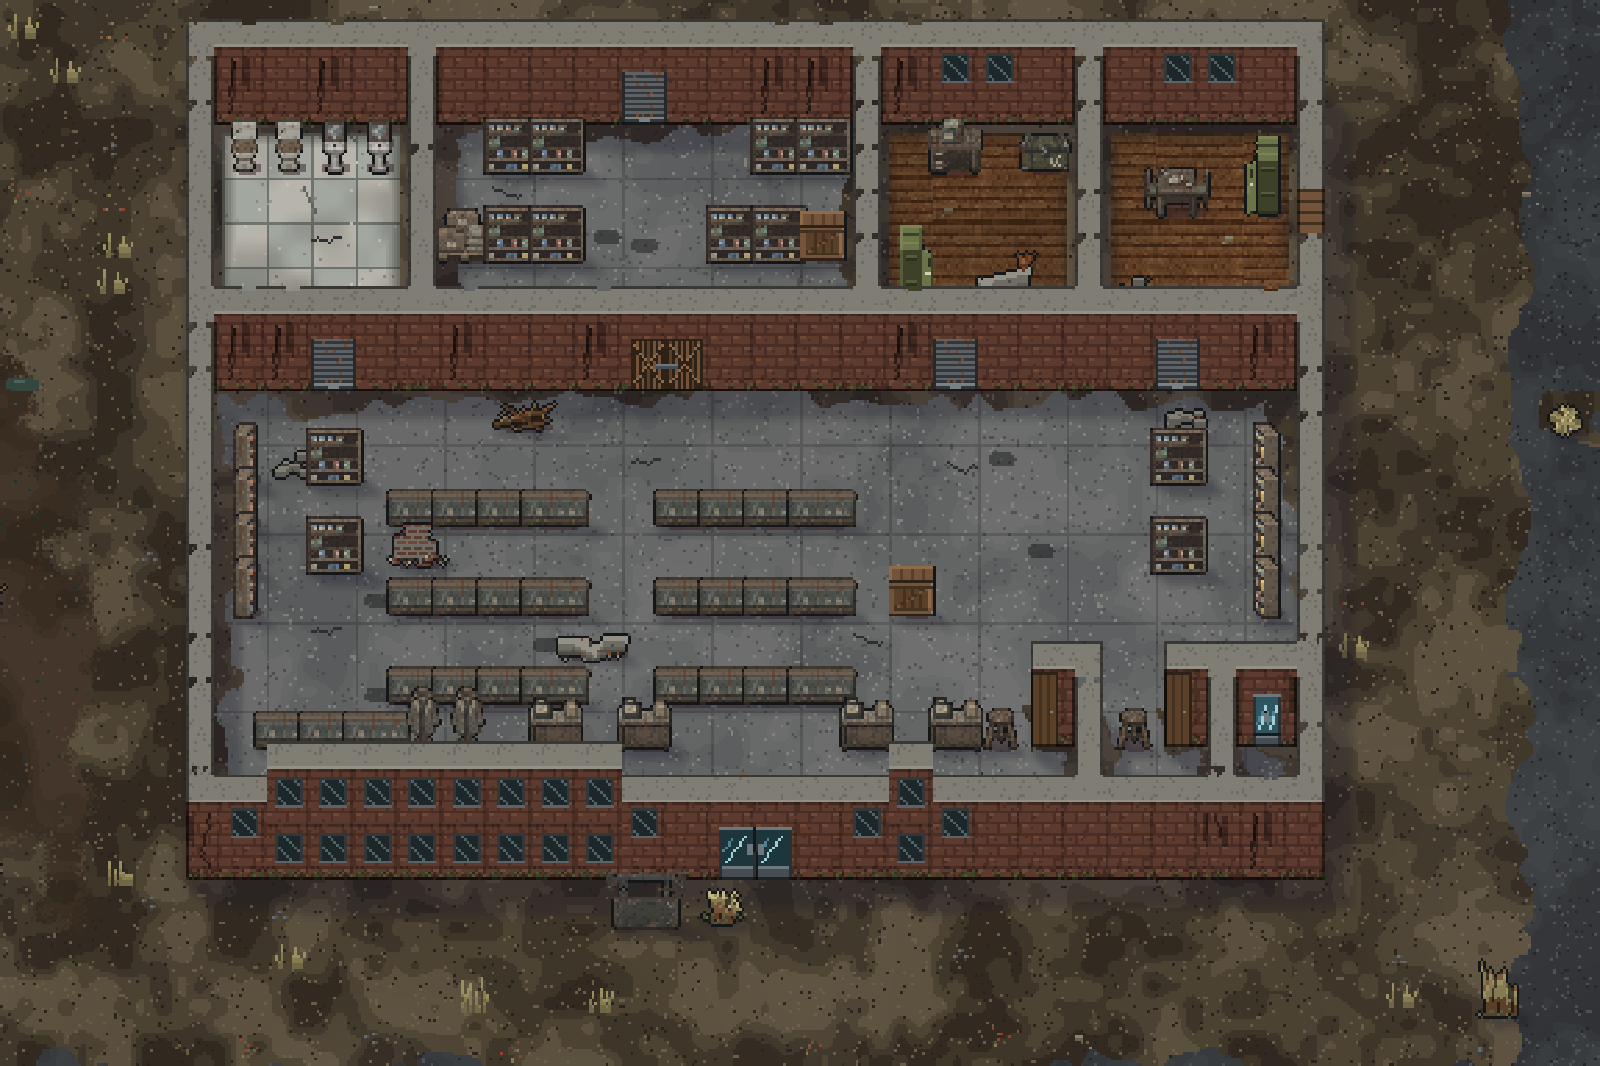
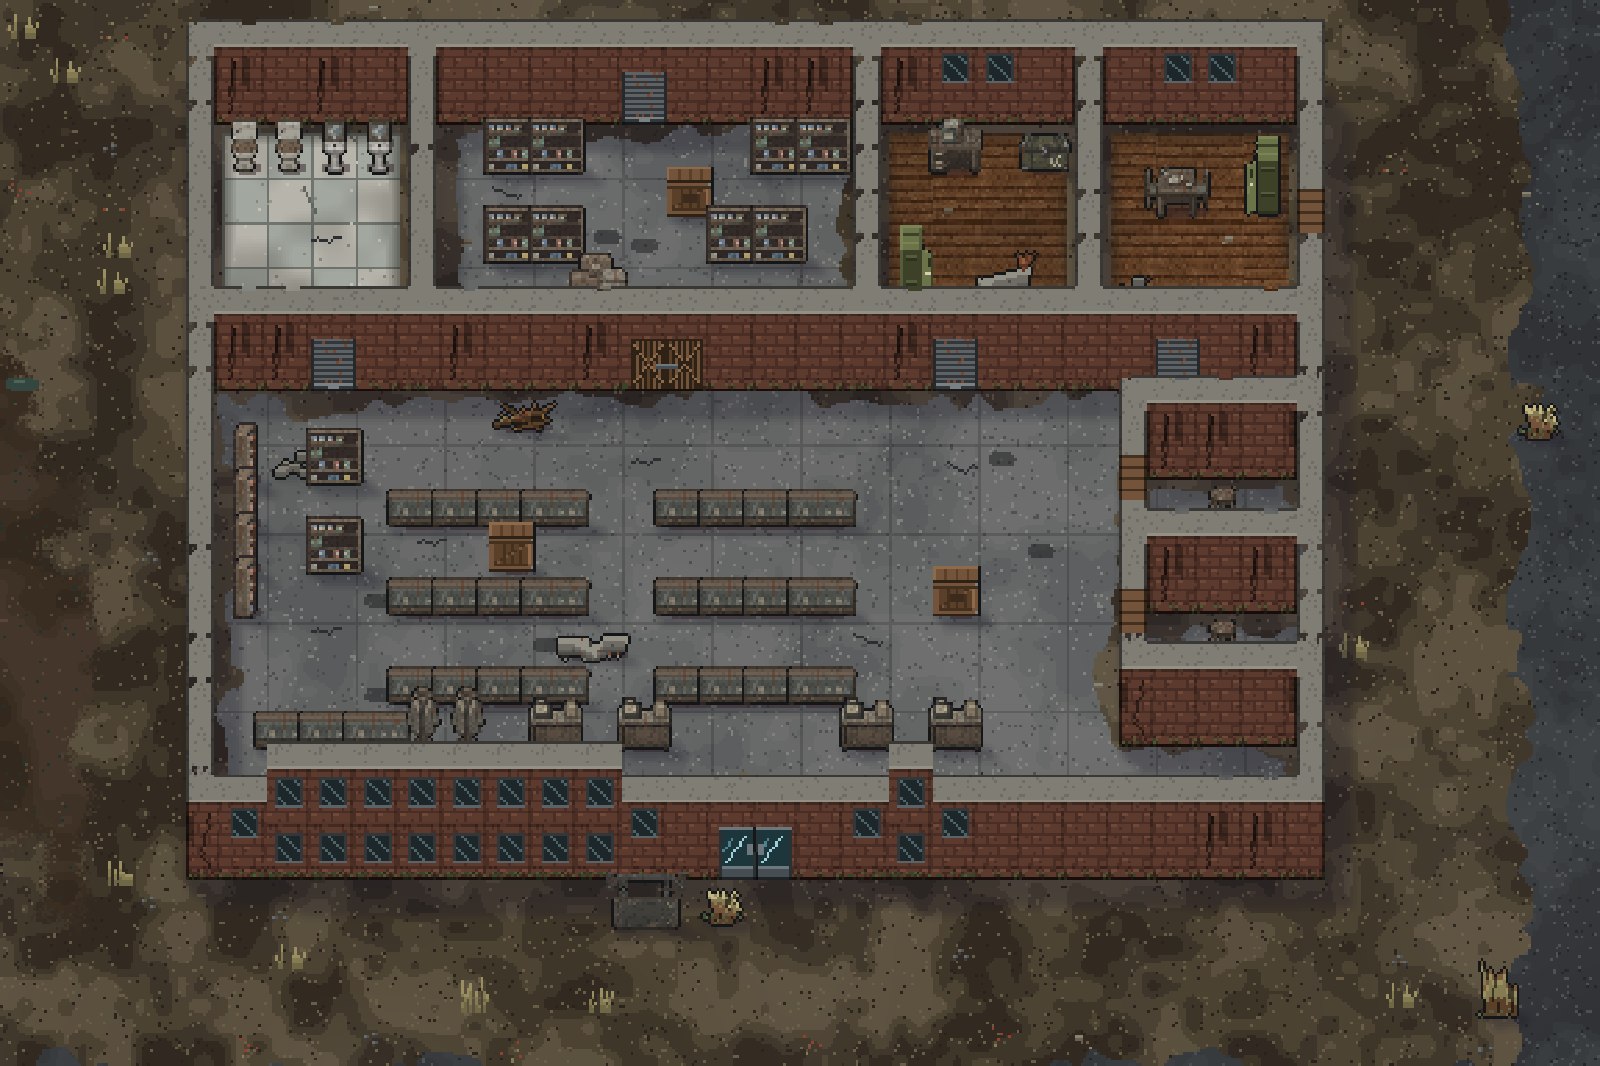
Department store: fitting rooms moved to the east wall, stock-room overlaps fixed
Claude-Session: https://claude.ai/code/session_01Jpd5tdDJTR7BVueAYV1KDM

diff --git a/Assets/Scripts/GameCore/InteriorPlans.Generated.cs b/Assets/Scripts/GameCore/InteriorPlans.Generated.cs
@@ -6,21 +6,21 @@ namespace GameCore
         public static readonly string[] DepartmentStore = {
             "##########D######nn###nn##",
             "#zzvv#.gg....gg#.£.F#....#",
-            "#....#.........#....#.¥..#",
-            "#....#Xgg...ggc#....#....#",
-            "#....#.........#..x.#+.hhD",
+            "#....#.....c...#....#.¥..#",
+            "#....#.gg...gg.#....#....#",
+            "#....#...X.....#..x.#+.hhD",
             "#....#.........#....#....#",
             "###D######DD#####D####D###",
-            "#.....................+..#",
-            "#5+g..................g.6#",
-            "#5...§§§§..§§§§.........6#",
-            "n5.g..................g.6n",
-            "n5...§§§§..§§§§.........6n",
-            "#........x...............#",
-            "#....§§§§..§§§§..........#",
-            "#.§§§ßß.Þ.Þ....Þ.ÞSD#SD#D#",
-            "#...................#..#.#",
-            "#...................#..#.#",
+            "#........................#",
+            "#5+g.................#####",
+            "#5...§§§§..§§§§......#.S.#",
+            "n5.g.................D...#",
+            "n5...§§§§..§§§§......#####",
+            "#........x...........#.S.#",
+            "#....§§§§..§§§§......D...#",
+            "#.§§§ßß.Þ.Þ....Þ.Þ...#####",
+            "#........................#",
+            "#........................#",
             "#nnnnnnnnnn#DD#nnn########",
         };
         public static readonly string[] DepartmentStoreFloor = {
@@ -32,15 +32,15 @@ namespace GameCore
             ".kkkk.ccccccccc.wwww.wwww.",
             "..........................",
             ".cccccccccccccccccccccccc.",
+            ".cccccccccccccccccccc.....",
+            ".cccccccccccccccccccc.ccc.",
+            ".cccccccccccccccccccc.ccc.",
+            ".cccccccccccccccccccc.....",
+            ".cccccccccccccccccccc.ccc.",
+            ".cccccccccccccccccccc.ccc.",
+            ".cccccccccccccccccccc.....",
             ".cccccccccccccccccccccccc.",
             ".cccccccccccccccccccccccc.",
-            ".cccccccccccccccccccccccc.",
-            ".cccccccccccccccccccccccc.",
-            ".cccccccccccccccccccccccc.",
-            ".cccccccccccccccccccccccc.",
-            ".cccccccccccccccccc..c....",
-            ".ccccccccccccccccccc.cc.c.",
-            ".ccccccccccccccccccc.cc.c.",
             "..........................",
         };
 

diff --git a/ArtSource/WORK_LOG.md b/ArtSource/WORK_LOG.md
@@ -7479,3 +7479,6 @@ New Pixel Lab props in the shelves' 3/4 view: display-case counters, office desk
 
 ## Batch 9gh (2026-11-27) - Department store: storefront, glass doors, sign, checkouts, restrooms; escalators and lift removed
 One floor only. Front is a run of display windows with glass double doors and a hanging store sign; loading door gets a roller look; new Pixel Lab props: checkout counter with till, mannequin, store sign; tiled restroom with toilets and basins; stock room with crates. walls.py: new door looks now also built for the one-storey brick and stucco walls. Harness passed; nothing run in Unity.
+
+## Batch 9gi (2026-11-27) - Department store: fitting rooms moved to the east wall, stock-room overlaps fixed
+The fitting-room doors in the south block led into cubicles hidden by the wall; they are now two cubicles on the east side with doors in a side wall (which hides nothing) and a stool each. Stock room: crates no longer overlap the shelves. Harness passed; nothing run in Unity.
